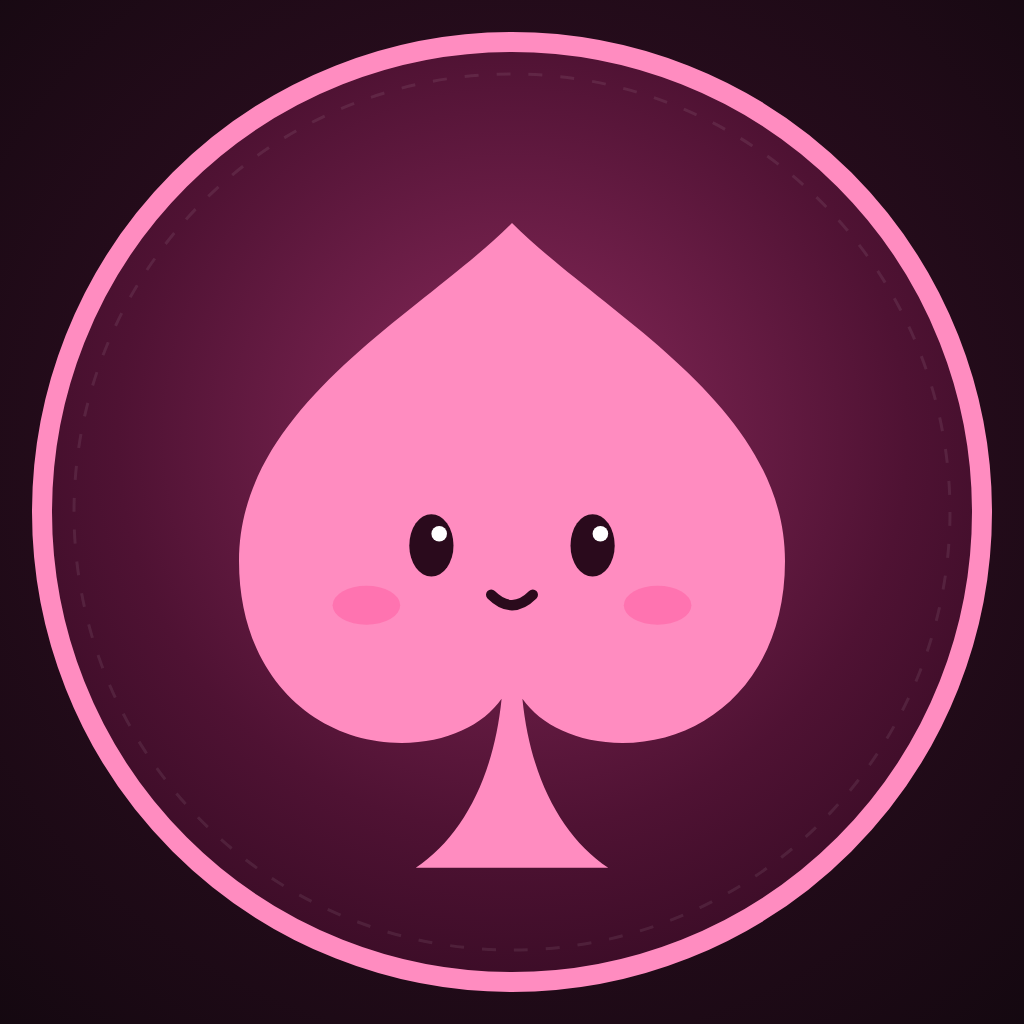
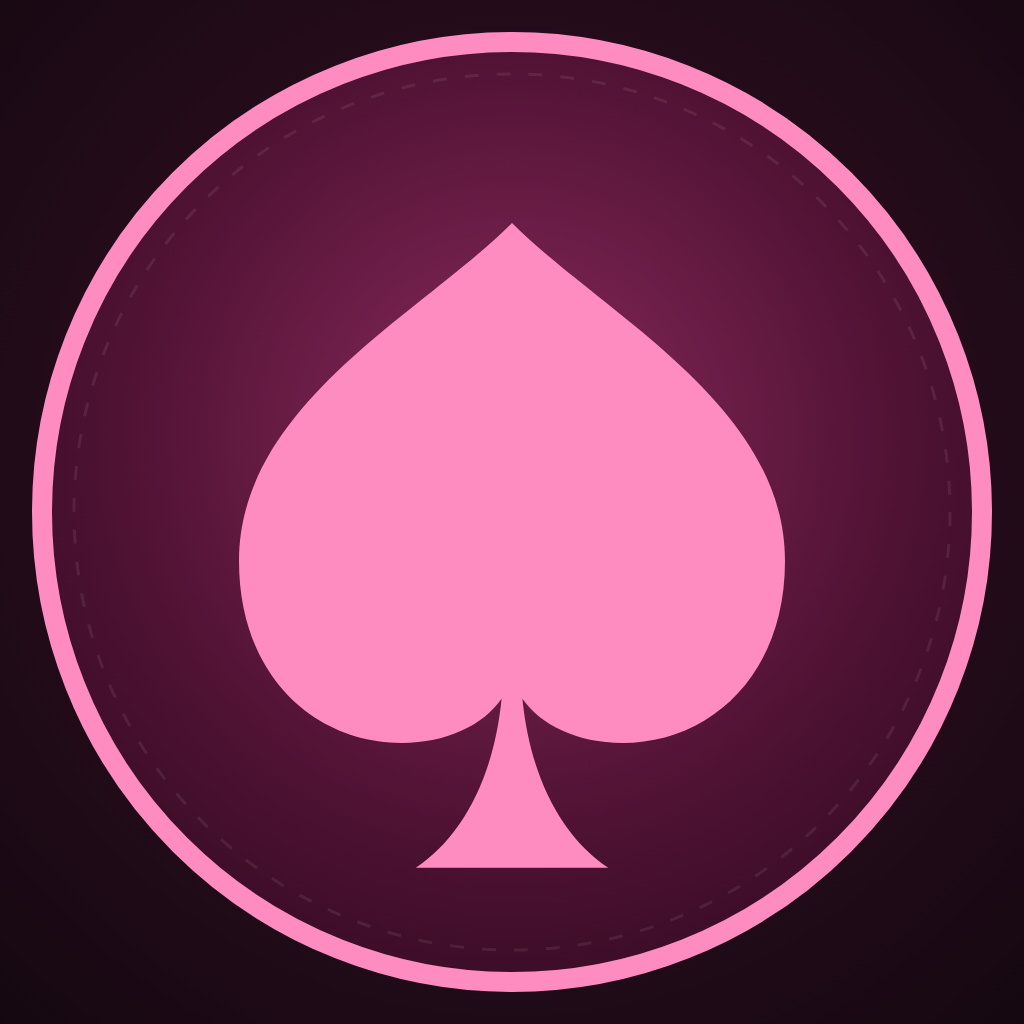
Brand: plain spade mark, cover with the name only
Claude-Session: https://claude.ai/code/session_01X8j2Skfmnb9TDVGz3t74cU

Changed region(s): [[0.5625, 0.5, 0.6875, 0.625], [0.3125, 0.5, 0.4375, 0.625], [0.4688, 0.5625, 0.5312, 0.5938]]

diff --git a/brand/brand.html b/brand/brand.html
@@ -11,15 +11,9 @@ body{margin:0;background:#000}
 .art{position:relative;overflow:hidden}
 </style></head><body>
 <svg width="0" height="0" style="position:absolute"><defs>
- <!-- the mascot: a spade with a face -->
+ <!-- the mark: a spade -->
  <g id="bunny">
   <path fill="#ff8cc0" d="M0 -190 C70 -120 210 -50 210 70 C210 160 150 210 85 210 C50 210 22 196 8 176 C14 236 38 282 74 306 L-74 306 C-38 282 -14 236 -8 176 C-22 196 -50 210 -85 210 C-150 210 -210 160 -210 70 C-210 -50 -70 -120 0 -190 Z"/>
-  <ellipse cx="-62" cy="58" rx="17" ry="24" fill="#2a0a1c"/>
-  <ellipse cx="62" cy="58" rx="17" ry="24" fill="#2a0a1c"/>
-  <circle cx="-56" cy="49" r="6" fill="#fff"/><circle cx="68" cy="49" r="6" fill="#fff"/>
-  <ellipse cx="-112" cy="104" rx="26" ry="15" fill="#ff5fa2" opacity=".55"/>
-  <ellipse cx="112" cy="104" rx="26" ry="15" fill="#ff5fa2" opacity=".55"/>
-  <path d="M-16 96 Q0 112 16 96" stroke="#2a0a1c" stroke-width="8" fill="none" stroke-linecap="round"/>
  </g>
  <radialGradient id="felt" cx="50%" cy="42%" r="60%"><stop offset="0" stop-color="#8a2a5c"/><stop offset=".7" stop-color="#4f1233"/><stop offset="1" stop-color="#3a0c26"/></radialGradient>
  <radialGradient id="room" cx="50%" cy="45%" r="75%"><stop offset="0" stop-color="#3a1029"/><stop offset="1" stop-color="#140810"/></radialGradient>
@@ -54,14 +48,7 @@ body{margin:0;background:#000}
  <div style="position:absolute;left:50%;top:50%;transform:translate(-50%,-50%);display:flex;align-items:center;gap:48px">
   <svg width="300" height="350" viewBox="-230 -210 460 540"><use href="#bunny"/></svg>
   <div>
-   <div style="font:700 124px/1 Unbounded;color:#fff;letter-spacing:.01em">Pyon<span style="color:#ff8cc0">Poker</span></div>
-   <div style="font:500 40px/1.25 Onest;color:#f6d6e6;margin-top:24px;white-space:nowrap">Покер без денег: учись и играй с друзьями</div>
-   <div style="display:flex;gap:16px;margin-top:28px;font:700 30px/1 Onest;color:#170912">
-    <span style="background:#ff8cc0;border-radius:999px;padding:12px 26px">Холдем</span>
-    <span style="background:#ff8cc0;border-radius:999px;padding:12px 26px">Омаха</span>
-    <span style="background:#f6b6d4;border-radius:999px;padding:12px 26px">Курс</span>
-    <span style="background:#f6b6d4;border-radius:999px;padding:12px 26px">Тренер</span>
-   </div>
+   <div style="font:700 150px/1 Unbounded;color:#fff;letter-spacing:.01em">Pyon<span style="color:#ff8cc0">Poker</span></div>
   </div>
  </div>
 </div>
